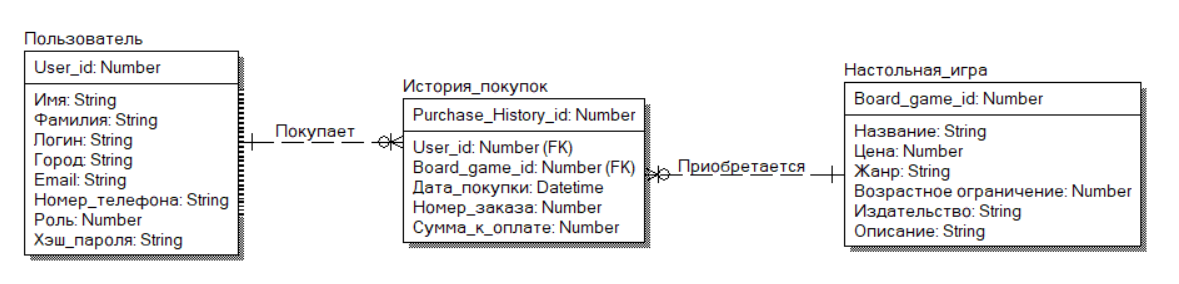
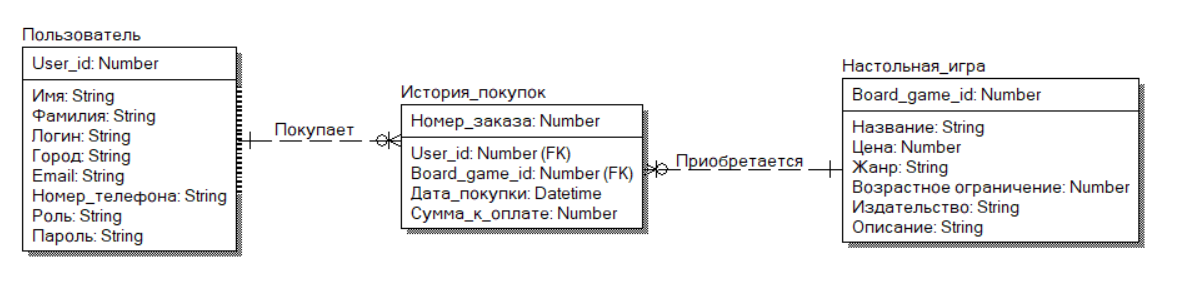
some fixes

Changed region(s): [[0.0, 0.0845, 0.9771, 0.9296]]

diff --git a/app/G9/kanatnikov.maxim/lab7/src/main/java/ru/vsu/amm/java/entities/UserEntity.java b/app/G9/kanatnikov.maxim/lab7/src/main/java/ru/vsu/amm/java/entities/UserEntity.java
@@ -3,7 +3,7 @@ package ru.vsu.amm.java.entities;
 import ru.vsu.amm.java.enums.Role;
 
 public class UserEntity {
-    private int userId;
+    private long userId;
     private String firstName;
     private String lastName;
     private String patronymic;
@@ -11,12 +11,12 @@ public class UserEntity {
     private String email;
     private String phoneNumber;
     private String passwordHash;
-    private Role Role;
+    private Role role;
 
     public UserEntity() {
     }
 
-    public UserEntity(int userId, String firstName, String lastName, String patronymic,
+    public UserEntity(long userId, String firstName, String lastName, String patronymic,
                       String city, String email, String phoneNumber, String passwordHash, Role role) {
         this.userId = userId;
         this.firstName = firstName;
@@ -26,14 +26,14 @@ public class UserEntity {
         this.email = email;
         this.phoneNumber = phoneNumber;
         this.passwordHash = passwordHash;
-        this.Role = role;
+        this.role = role;
     }
 
-    public int getUserId() {
+    public long getUserId() {
         return userId;
     }
 
-    public void setUserId(int userId) {
+    public void setUserId(long userId) {
         this.userId = userId;
     }
 
@@ -94,10 +94,10 @@ public class UserEntity {
     }
 
     public ru.vsu.amm.java.enums.Role getRole() {
-        return Role;
+        return role;
     }
 
     public void setRole(ru.vsu.amm.java.enums.Role role) {
-        Role = role;
+        this.role = role;
     }
 }

diff --git a/app/G9/kanatnikov.maxim/lab7/src/main/java/ru/vsu/amm/java/entities/PurchaseHistory.java b/app/G9/kanatnikov.maxim/lab7/src/main/java/ru/vsu/amm/java/entities/PurchaseHistory.java
@@ -1,36 +1,26 @@
 package ru.vsu.amm.java.entities;
 
 public class PurchaseHistory {
-    private int purchaseHistoryId;
-    private int orderNumber;
+    private long orderNumber;
     private int payment;
-    private int userId;
+    private long userId;
     private int boardGameId;
 
     public PurchaseHistory() {
     }
 
-    public PurchaseHistory(int purchaseHistoryId, int orderNumber, int payment, int userId, int boardGameId) {
-        this.purchaseHistoryId = purchaseHistoryId;
+    public PurchaseHistory(long orderNumber, int payment, long userId, int boardGameId) {
         this.orderNumber = orderNumber;
         this.payment = payment;
         this.userId = userId;
         this.boardGameId = boardGameId;
     }
 
-    public int getPurchaseHistoryId() {
-        return purchaseHistoryId;
-    }
-
-    public void setPurchaseHistoryId(int purchaseHistoryId) {
-        this.purchaseHistoryId = purchaseHistoryId;
-    }
-
-    public int getOrderNumber() {
+    public long getOrderNumber() {
         return orderNumber;
     }
 
-    public void setOrderNumber(int orderNumber) {
+    public void setOrderNumber(long orderNumber) {
         this.orderNumber = orderNumber;
     }
 
@@ -42,11 +32,11 @@ public class PurchaseHistory {
         this.payment = payment;
     }
 
-    public int getUserId() {
+    public long getUserId() {
         return userId;
     }
 
-    public void setUserId(int userId) {
+    public void setUserId(long userId) {
         this.userId = userId;
     }
 

diff --git a/app/G9/kanatnikov.maxim/lab7/src/main/java/ru/vsu/amm/java/entities/BoardGame.java b/app/G9/kanatnikov.maxim/lab7/src/main/java/ru/vsu/amm/java/entities/BoardGame.java
@@ -1,10 +1,12 @@
 package ru.vsu.amm.java.entities;
 
+import ru.vsu.amm.java.enums.Genre;
+
 public class BoardGame {
     private int boardGameId;
     private String name;
     private int price;
-    private String genre;
+    private Genre genre;
     private int minAge;
     private String publisher;
     private String description;
@@ -12,7 +14,7 @@ public class BoardGame {
     public BoardGame() {
     }
 
-    public BoardGame(int boardGameId, String name, int price, String genre, int minAge, String publisher, String description) {
+    public BoardGame(int boardGameId, String name, int price, Genre genre, int minAge, String publisher, String description) {
         this.boardGameId = boardGameId;
         this.name = name;
         this.price = price;
@@ -46,11 +48,11 @@ public class BoardGame {
         this.price = price;
     }
 
-    public String getGenre() {
+    public Genre getGenre() {
         return genre;
     }
 
-    public void setGenre(String genre) {
+    public void setGenre(Genre genre) {
         this.genre = genre;
     }
 

diff --git a/app/G9/kanatnikov.maxim/lab7/src/main/java/ru/vsu/amm/java/enums/Genre.java b/app/G9/kanatnikov.maxim/lab7/src/main/java/ru/vsu/amm/java/enums/Genre.java
@@ -1,0 +1,14 @@
+package ru.vsu.amm.java.enums;
+
+public enum Genre {
+    WARGAME,
+    PARTY,
+    FAMILY,
+    COOPERATIVE,
+    RPG,
+    DUEL,
+    STRATEGY,
+    ECONOMIC,
+    ADVENTURE,
+    DETECTIVE
+}
